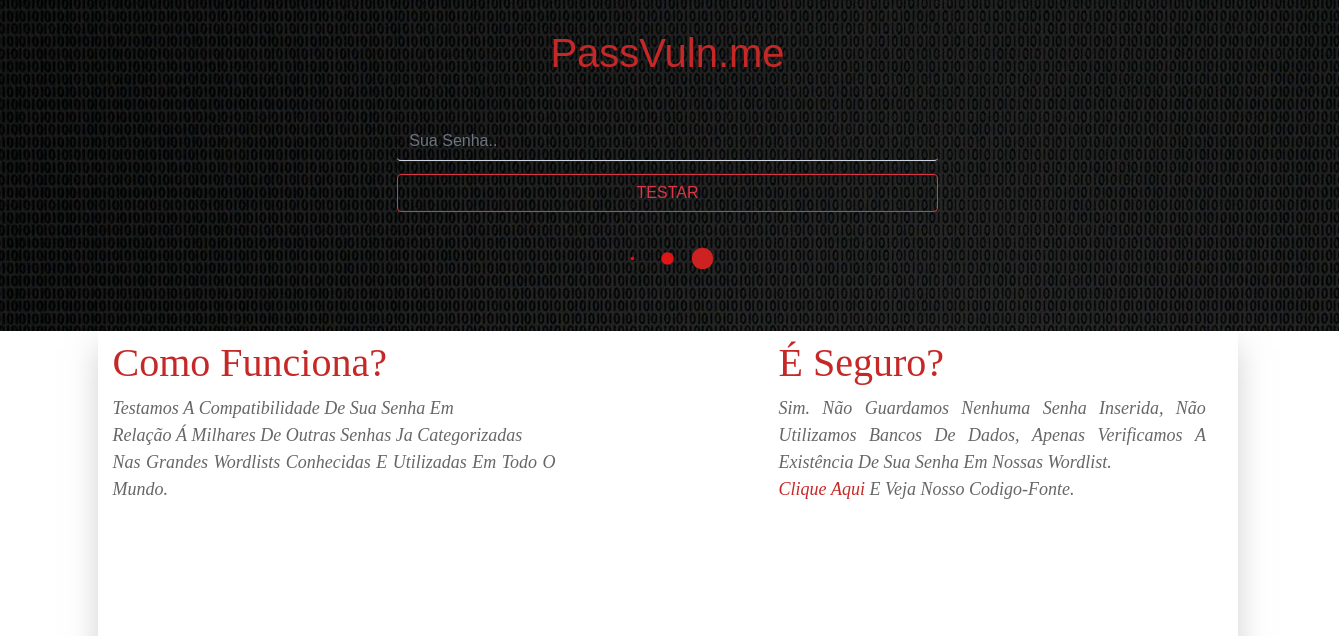
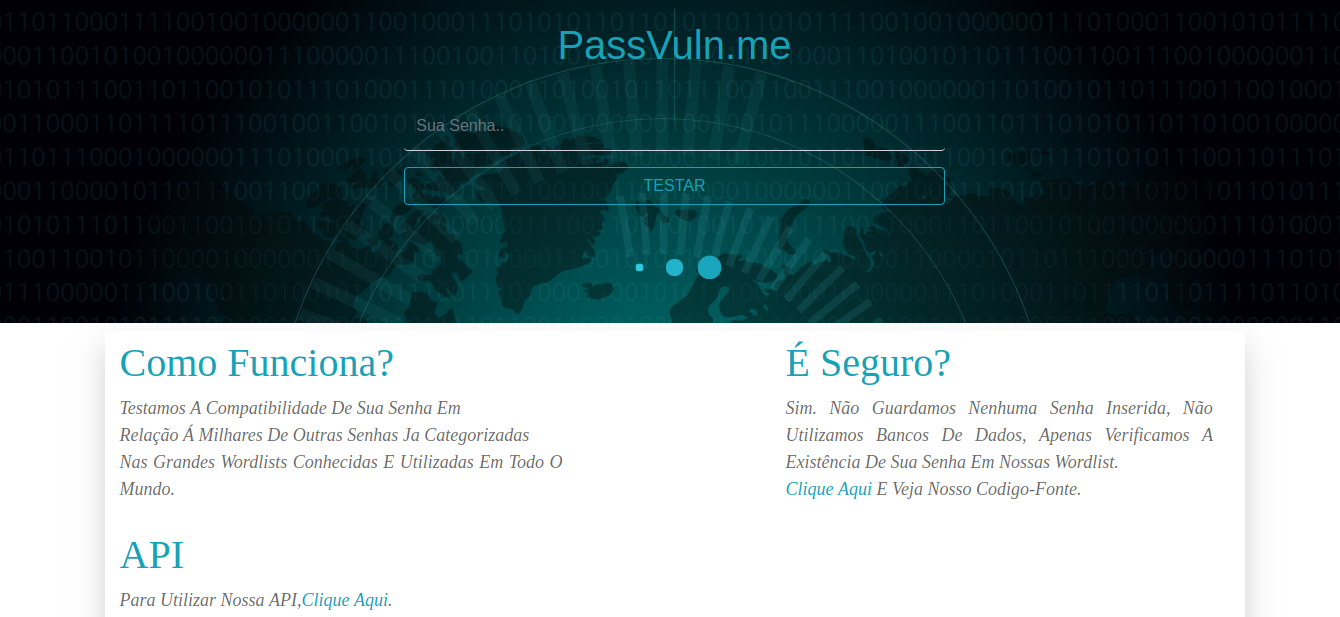
New Pic, Add Less, new shadow!

diff --git a/index.html b/index.html
@@ -32,7 +32,7 @@
 
   <body id="page-top" class="tbody">
 
-    <nav class="navbar navbar-expand-lg navbar-dark fixed-top sideNav" id="tNav">
+    <nav class="navbar navbar-expand-lg navbar-dark fixed-top shadow-lg sideNav" id="tNav">
       <div class="">
         <a class="pingu" id="pingu"><i class="fas fa-times active"></i></a>
       </div>
@@ -160,6 +160,10 @@
             <i class="fab fa-css3-alt"></i>
           </li>
           <li class="list-inline-item">
+            <i class="fab fa-less"></i>
+          </li>
+
+          <li class="list-inline-item">
             <i class="fab fa-js-square"></i>
           </li>
           </ul>
@@ -174,6 +178,9 @@
                 <li>
                   <i class="fa-li fa fa-check-double"></i>
                   Bootstrap</li>
+                  <li>
+                    <i class="fa-li fa fa-check-double"></i>
+                    Less</li>
                 </ul>
             <li>
               <i class="fa-li fa fa-check"></i>

diff --git a/css/resume.css b/css/resume.css
@@ -225,7 +225,6 @@ p.lead {
     width: 17rem;
     height: 100vh;
     background-color: #343a40;
-    box-shadow: 2px 0px 30px #17a2b8;
   }
   .sideNav .navbar-brand {
     display: -webkit-box;
